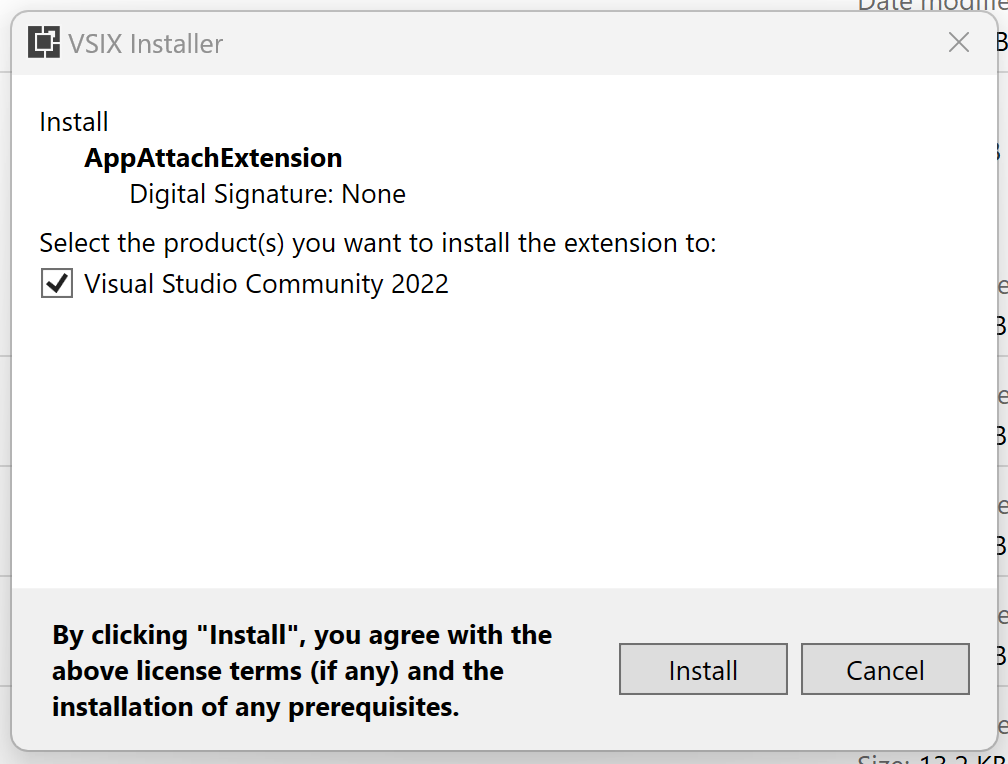
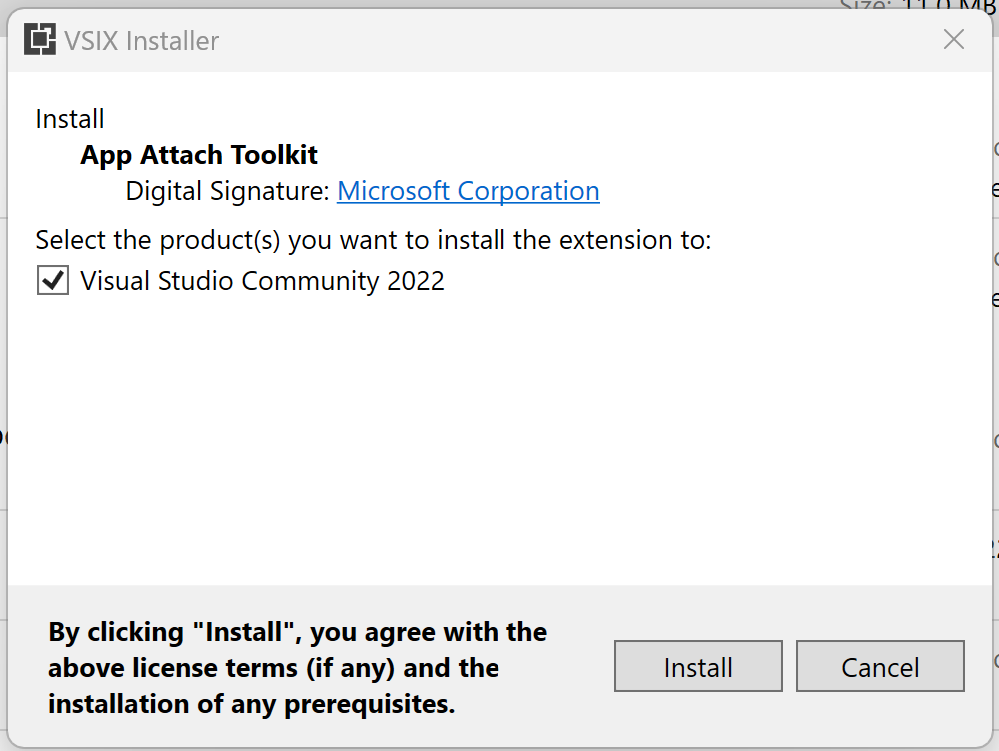
Learn Editor: Update app-attach-from-visualstudio.md

Changed region(s): [[0.0, 0.0, 1.0, 1.0]]

diff --git a/msix-src/desktop/app-attach-from-visualstudio.md b/msix-src/desktop/app-attach-from-visualstudio.md
@@ -41,7 +41,7 @@ Open Visual Studio Installer -> Click on Modify -> Check on Azure development ->
 - Get the extension from Visual Studio Marketplace by going [here ](https://marketplace.visualstudio.com/items?itemName=AppStreamingDeveloperServices.AppAttachToolkit)or searching for "App Attach Toolkit".
 - Install the extension to Visual Studio by double clicking the above downloaded file.
 
-![User's image](media/app-attach-from-visualstudio/image1.png)
+![Screenshot 2023-10-11 180059](media/app-attach-from-visualstudio/screenshot-2023-10-11-180059.png)
 
 - Ensure the system is connected to the Internet.
 
@@ -51,20 +51,20 @@ Open Visual Studio Installer -> Click on Modify -> Check on Azure development ->
 ## Create an App Attach ready Package  
 Once you have the extension installed in Visual Studio 2022,
 1. Launch Visual Studio in elevated mode by right-click and choosing 'Run as Administrator'.
-2. Create a [ WinUI 3 ](/windows/apps/winui/winui3/create-your-first-winui3-app) C# Desktop app using the **Blank App, Packaged (WinUI 3 in Desktop)** Visual Studio project template that comes with the Windows App SDK.   
+1. Create a[ WinUI 3 ](/windows/apps/winui/winui3/create-your-first-winui3-app) C# or C++ Desktop app using the **Blank App, Packaged (WinUI 3 in Desktop)** Visual Studio project template that comes with the Windows App SDK.   
 
 ![Screenshot 2023-05-30 165600](media/app-attach-from-visualstudio/screenshot-2023-05-30-165600.png)
 
-> [!NOTE] 
-> MSIX Image creation process is only supported for WinUI3 apps in this Private Preview.
-
+> [!NOTE]
+> MSIX Image creation process is only supported for WinUI3 apps at this point.
 1. In the Solution Explorer, right-click the project and choose __Package and Publish__ -> __Create App Attach Packages__  
 
 ![Screenshot 2023-05-30 165836](media/app-attach-from-visualstudio/screenshot-2023-05-30-165836.png)
 
-4. Now you can configure the package by selecting an output location for your MSIX Package and VHDx file, and selecting the platform of choice.   
+1. Now you can configure the package by selecting an output location for your MSIX Package and VHDx file, and selecting the platform of choice.   
+1. For an MSIX package to be installed on an end user's machine, it must be signed with a cert that is trusted on the machine. You can select a certificate from your local certificate store, select a certificate file, or create a new certificate. Learn how to [Sign the app package ](/windows/msix/package/sign-app-package-using-signtool)here.
 
-5. For an MSIX package to be installed on an end user's machine, it must be signed with a cert that is trusted on the machine. You can select a certificate from your local certificate store, select a certificate file, or create a new certificate. Learn how to [Sign the app package ](/windows/msix/package/sign-app-package-using-signtool)here.
+![Screenshot 2023-10-11 181102](media/app-attach-from-visualstudio/screenshot-2023-10-11-181102.png)
 
 ## Publish your App Attach Package 
 1. To Publish your App Attach package to Azure Virtual Desktop, select the Azure option.
@@ -106,6 +106,8 @@ A6: No, this functionality is not currently supported. However, you can increase
 
 **Q7: How do I uninstall a locally attached application?**   
 A7: Right-click on your app in the search bar and select uninstall. Also, eject the new drive added to your This PC. For a comprehensive removal, launch PowerShell in admin mode and execute the following command: 
+
+
 
 
 
